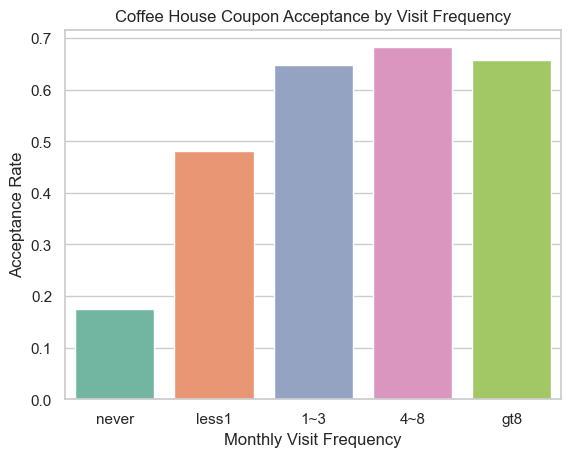
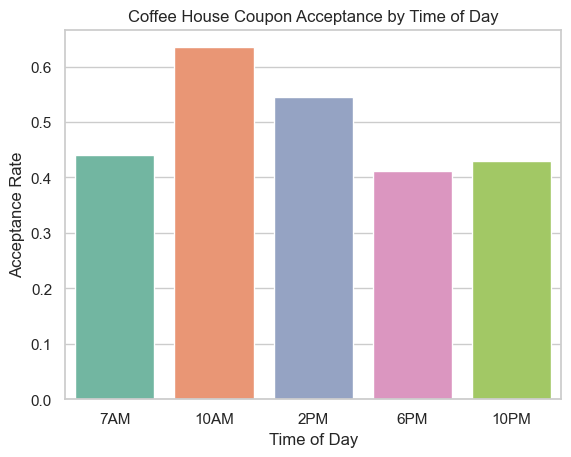
added more charts and recommendations

diff --git a/README.md b/README.md
@@ -48,17 +48,26 @@ Budget conscious drivers also show higher acceptance.
 
 ## Independent Investigation - Coffee House Coupons
 
+### Introduction
+What are the characteristics distinguish drivers who accept Coffee House coupons and the factors that influences their decision
+
 Coffee house is the largest coupon group with 3,816 observations. The coffee house coupon acceptance rate is **49.63%** - two primary factors separate acceptors from non-acceptors: visit frequency and time of day.
 
-**Visit Frequency** - frequent coffee house visitors are more likely to accept a coffee house coupon. This conclusion is very similar to bar goers.
+- **Visit Frequency** - frequent coffee house visitors are more likely to accept a coffee house coupon. This conclusion is very similar to bar goers.
 
-**Time of Day** - acceptance peaks at 10AM, aligning with the morning coffee habit, and remains moderate at 2PM for afternoon coffee breaks. Evening hours (6PM, 10PM) show notably lower acceptance.
+- **Time of Day** - acceptance peaks at 10AM, aligning with the morning coffee habit, and remains moderate at 2PM for afternoon coffee breaks. Evening hours (6PM, 10PM) show notably lower acceptance.
 
 ### Hypothesis
 
 The overall acceptance rate for the coffee house coupon is 49.63% and primary factors are visit frequency and time of day.
 
-**Overall**, the ideal coffee house coupon recipient is a frequent coffee house visitor in the morning or early afternoon. Targeting infrequent visitors or evening drivers is less likely to yield better results.
+- **Overall**, the ideal coffee house coupon recipient is a frequent coffee house visitor in the morning or early afternoon. Targeting infrequent visitors or evening drivers is less likely to yield better results.
+
+### Next step and recommendations
+
+- Target the frequent visitors - as they'll likely to accept the coupons than non-visitors
+- Time the coupon delivery - send when the driver is most receptive like 10am or 2pm
 
 ![Coffee Acceptance by Frequency](images/coffee_acceptance_by_frequency.png)
+![Coffee Acceptance Vs  Rejection](images/coffee_acceptance_vs_rejection.png)
 
